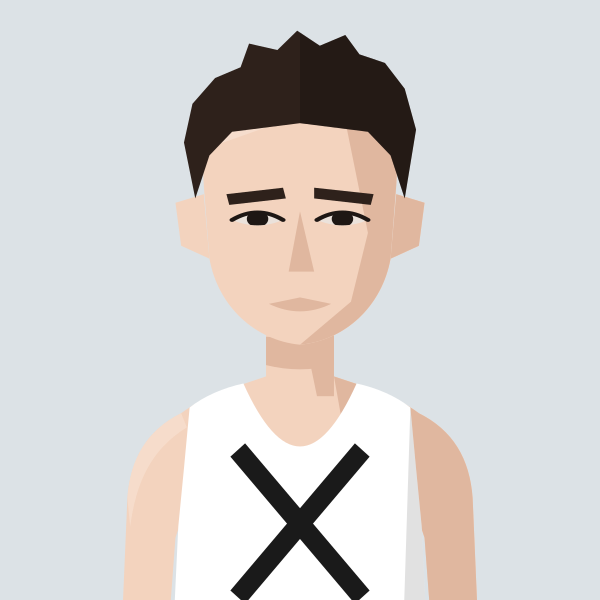
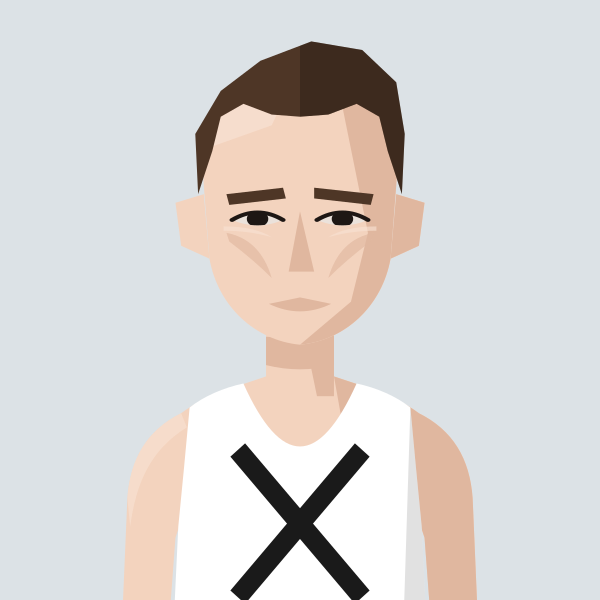
Alex Howard: short swept-back brown hair, receding at the temples
Claude-Session: https://claude.ai/code/session_01MgmDWhFqnSSnP4iBLKXUZC

Changed region(s): [[0.3, 0.03, 0.69, 0.33], [0.51, 0.3, 0.63, 0.36], [0.36, 0.3, 0.48, 0.36]]

diff --git a/files/index.html b/files/index.html
@@ -581,7 +581,7 @@ return m;})();
 const portraitFile=(name,club)=>{const k=normalizeNameForCompare(name||'').replace(/\s*\([^)]*\)$/,'');const a=PORTRAITS[k];if(a&&a.club===club)return a.file;const b=PORTRAITS[k+'@'+club];return b?b.file:null;};
 // Athlete header figure: superstar portrait if we have one, else a grey runner in the club vest, else the plain vest icon
 // Changes whenever any portrait changes (set by tools/build_og.py), so browsers fetch fresh images instead of old cached ones
-const PORTRAIT_V='e11bab0e';
+const PORTRAIT_V='9e1fba36';
 const AthletePortrait=({name,club,w,fill,onClick})=>{const[failed,setFailed]=useState(false);const file=portraitFile(name,club);const src=file?`/portraits/athletes/${file}.svg?v=${PORTRAIT_V}`:PORTRAIT_CLUBS.has(club)?`/portraits/clubs/${club.replace(/\//g,'').replace(/&/g,'and')}.svg?v=${PORTRAIT_V}`:null;if(!src||failed)return<div onClick={onClick} className={onClick?'cursor-pointer':''}><ClubShield club={club} size={w}/></div>;const h=Math.round(w*148/126),ih=Math.round(w*1.4);if(fill)return<div onClick={onClick} className="cursor-pointer" style={{alignSelf:'stretch',minHeight:h,aspectRatio:'126 / 148',flexShrink:0,position:'relative',borderRadius:4,overflow:'hidden'}}><img src={src} alt={file?`Portrait of ${name.replace(/\s*\([^)]*\)$/,'')}`:`Runner in ${CLUBS[club]?.name||club} vest`} style={{position:'absolute',top:0,left:0,display:'block',width:'100%',height:'auto'}} onError={()=>setFailed(true)}/></div>;return<div style={{width:w,height:h,borderRadius:4,overflow:'hidden',flexShrink:0}}><img src={src} alt={file?`Portrait of ${name.replace(/\s*\([^)]*\)$/,'')}`:`Runner in ${CLUBS[club]?.name||club} vest`} width={w} height={ih} style={{display:'block',width:w,height:ih}} onError={()=>setFailed(true)}/></div>;};
 const getClubVestSvg=(club)=>{
   const p="M3 0 L6 0 Q7 4 10 5 Q13 4 14 0 L17 0 L17 20 L3 20 Z";

diff --git a/tools/gen_portraits.py b/tools/gen_portraits.py
@@ -585,7 +585,7 @@ W439b = [
  ("deron-fagan","HHH","Deron Fagan",dict(skin=6,hair=None,beanie="#3A4B5C"),"navy beanie"),
  ("lee-lintern","G&G","Lee Lintern",dict(skin=1,hair="crop",hair_colour="#4A3426",facial="beard"),"short brown hair, beard"),
  ("ian-acreman","G&G","Ian Acreman",dict(skin=1,hair="crop",hair_colour="grey"),"short grey hair"),
- ("alex-howard","THH","Alex Howard",dict(skin=1,hair="tousled",hair_colour="#2E211B"),"tousled dark brown hair"),
+ ("alex-howard","THH","Alex Howard",dict(skin=1,hair="quiffrecede",hair_colour="#4E3626",gaunt=True),"short swept-back brown hair, receding at the temples"),
  ("james-hancock","BEL","James Hancock",dict(skin=1,hair="crop",hair_colour="#C2A06A",facial="stubble"),"short blond hair, stubble"),
  ("nick-morris","BEL","Nick Morris",dict(skin=1,hair="quiff",hair_colour="#2A1D18"),"short dark hair"),
  ("richard-sun","H/W","Richard Sun",dict(skin=2,hair="crop",hair_colour="#1C1714",shades=True),"short black hair, sunglasses"),
